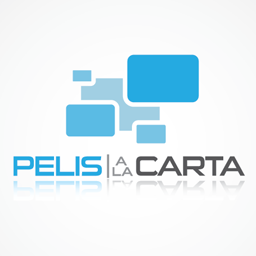
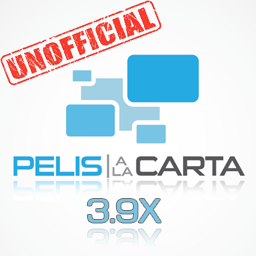
Modificar icono y solucionar bugs

Changed region(s): [[0.0, 0.0, 0.6562, 0.3438], [0.3438, 0.75, 0.6562, 0.9375]]

diff --git a/platformcode/xbmc/launcher.py b/platformcode/xbmc/launcher.py
@@ -196,7 +196,7 @@ def EjecutarFuncion(item):
 
 # Funcion para Mostrar los resultados en XBMC:----------->OK
 def MostrarResultado(itemlist, refereditem):
-    logger.info("[launcher.py] - MostrarResultado")# + str(sys.argv))
+    logger.info("[launcher.py] - MostrarResultado " + refereditem.tostring() )# + str(sys.argv))
     
     Mostrar = True    
     for item in itemlist:

diff --git a/core/config.py b/core/config.py
@@ -34,6 +34,9 @@ def get_platform():
 
 def get_library_support():
     return (PLATFORM_NAME.startswith("xbmc") or PLATFORM_NAME.startswith("kodi") or PLATFORM_NAME=="boxee")
+    
+def is_xbmc():
+    return (PLATFORM_NAME.startswith("xbmc") or PLATFORM_NAME.startswith("kodi"))
 
 def get_system_platform():
     try:
